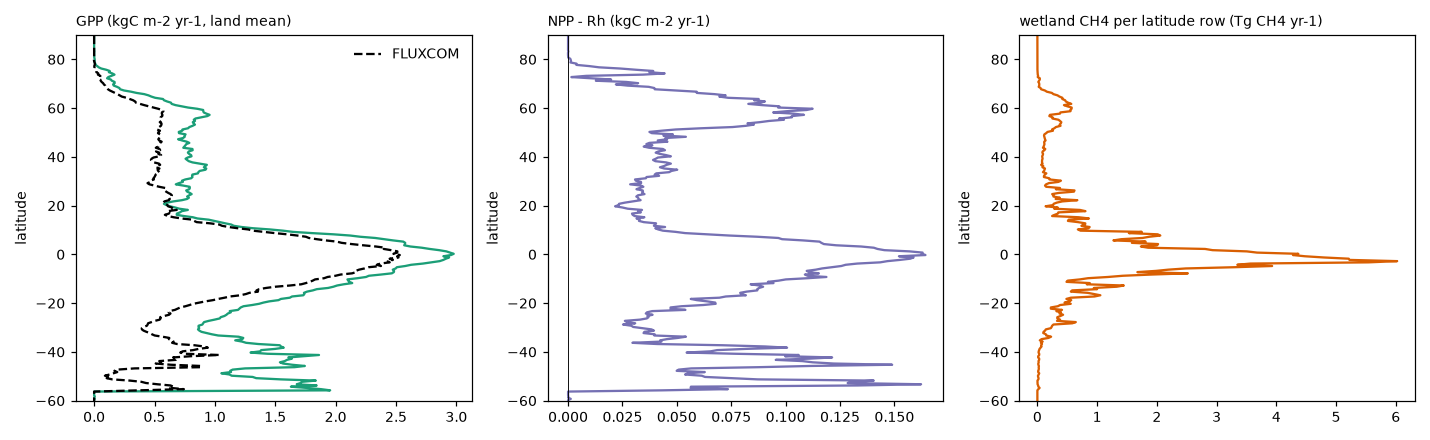
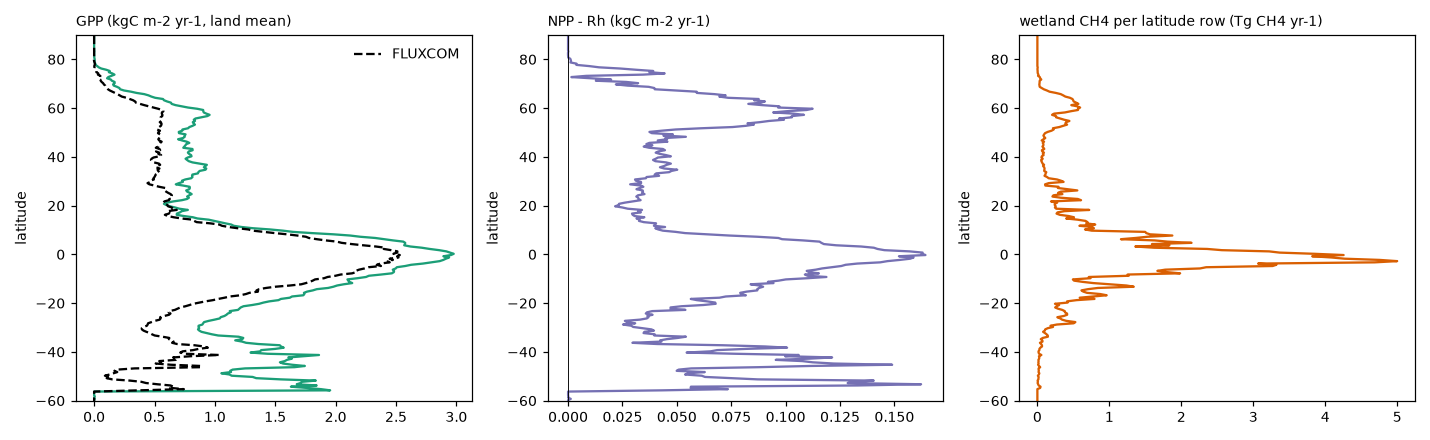
Release methane = hourly flux + hourly-refitted bands + learned wetland area (CALIBRATION 82): README with the three-mode and learned-vs-observed tables and regenerated figures 1-2, RELEASE_3.0, protocol switches, data inventory, xgboost dependency; fire rows on the corrected GFED5 registration

diff --git a/verify/methane/plot_wetland_modes.py b/verify/methane/plot_wetland_modes.py
@@ -1,0 +1,89 @@
+"""Figures: wetland area and wetland CH4 under the three area modes (climatology / learned / observed), hourly CH4 with the
+hourly bands, 2001-2010; plus the release as it stood before 2026-10-29 (month-end snapshot, old bands, mis-registered WAD2M).
+    python plot_wetland_modes.py <clim out> <learned out> <observed out> <old release out> <figure dir>
+Writes wetland_area_series.png, wetland_area_maps.png, wetland_ch4_series.png. CPU environment (matplotlib, xarray)."""
+import sys, numpy as np, xarray as xr, matplotlib; matplotlib.use('Agg'); import matplotlib.pyplot as plt
+from matplotlib.colors import TwoSlopeNorm
+R = '/shared/nas2/Hangkai/ibis-port'; sys.path[:0] = [f'{R}/verify/calibration']
+from landmask import true_landfrac
+CLIM, LEARN, OBS, OLD, FIG = sys.argv[1:6]
+NDAY = np.array([31, 28, 31, 30, 31, 30, 31, 31, 30, 31, 30, 31], float)
+INK, INK2, MUTED, GRID, SURF = '#0b0b0b', '#52514e', '#8a8984', '#e6e5e0', '#fcfcfb'
+COL = {'climatology': '#8a8984', 'learned': '#2a78d6', 'observed': '#eb6834', 'old': '#3d3c38'}
+plt.rcParams.update({'font.size': 11, 'axes.edgecolor': GRID, 'axes.labelcolor': INK2, 'xtick.color': INK2, 'ytick.color': INK2, 'axes.titlesize': 12,
+                     'axes.titleweight': 'bold', 'axes.titlecolor': INK, 'figure.facecolor': SURF, 'axes.facecolor': SURF, 'savefig.facecolor': SURF,
+                     'axes.spines.top': False, 'axes.spines.right': False, 'axes.grid': True, 'grid.color': GRID, 'grid.linewidth': 0.8, 'legend.frameon': False})
+LAT = np.arange(89.75, -90, -0.5); lf = np.nan_to_num(true_landfrac()); AREA = (6371e3 ** 2) * np.deg2rad(0.5) ** 2 * np.cos(np.deg2rad(LAT))[:, None] * np.ones((360, 720)) * lf
+BANDS = {'90°S–30°N': LAT < 30, '30–60°N': (LAT >= 30) & (LAT < 60), '60–90°N': LAT >= 60, 'Global': np.ones(360, bool)}
+GMB = {'90°S–30°N': (109.5, 65.7, 146.1), '30–60°N': (32.1, 16.3, 60.1), '60–90°N': (11.7, 3.6, 28.1), 'Global': (153.3, 116.1, 189.1)}
+def monthly(d, v):
+    return np.array([np.nan_to_num(np.asarray(xr.open_dataset(f'{d}/ibis_monthly_{y}_{m:02d}.nc')[v].values, np.float32)) for y in range(2001, 2011) for m in range(1, 13)])
+wd = xr.open_dataset('/shared/nas2/Hangkai/ibis/inputs/methane/wad2m/WAD2M_wetlands_2000-2020_05deg_Ver2.0.nc'); FW = np.nan_to_num(np.asarray(wd['Fw'].values, np.float32))
+FW = FW[:, ::-1] if float(wd['lat'].values[0]) < float(wd['lat'].values[-1]) else FW; t = wd['time'].dt.year.values
+AO = FW[(t >= 2001) & (t <= 2010)]; AC = np.tile(np.clip(FW.reshape(21, 12, 360, 720).mean(0), 0, 1), (10, 1, 1)); AL = monthly(LEARN, 'finund')
+land = np.isfinite(xr.open_dataset(f'{LEARN}/ibis_monthly_2001_01.nc')['fu'].values)
+AO = np.where(land, AO, 0); AC = np.where(land, AC, 0)
+CH = {k: monthly(d, 'amch4') for k, d in (('climatology', CLIM), ('learned', LEARN), ('observed', OBS), ('old', OLD))}
+nd = np.tile(NDAY, 10)
+def band_area(A, msk): return (A[:, msk] * AREA[msk]).sum((1, 2)) / 1e12
+def band_ch4(C, msk): return (C[:, msk] * AREA[msk]).sum((1, 2)) * nd * 16.0 / 12.0 / 1e9
+tm = 2001 + (np.arange(120) + 0.5) / 12; yrs = np.arange(2001, 2011)
+# ---- figure 1: wetland area by band, monthly series and annual anomalies
+fig, ax = plt.subplots(4, 2, figsize=(14, 13), gridspec_kw=dict(width_ratios=[2.4, 1]), constrained_layout=True)
+for i, (b, msk) in enumerate(BANDS.items()):
+    s = {'climatology': band_area(AC, msk), 'learned': band_area(AL, msk), 'observed': band_area(AO, msk)}
+    a = ax[i, 0]
+    for k in ('climatology', 'observed', 'learned'): a.plot(tm, s[k], color=COL[k], lw=2 if k != 'climatology' else 1.5, ls='-' if k != 'climatology' else '--', label={'observed': 'observed (WAD2M)', 'learned': 'learned', 'climatology': 'WAD2M climatology'}[k])
+    a.set_title(f'{b}: wetland area, monthly', loc='left'); a.set_ylabel('million km²')
+    if i == 0: a.legend(loc='upper left', ncol=3)
+    a = ax[i, 1]
+    for k in ('observed', 'learned'):
+        y = s[k].reshape(10, 12).mean(1); a.plot(yrs, y - y.mean(), color=COL[k], lw=2, marker='o', ms=6, mec=SURF, mew=1.5, label=k)
+    a.axhline(0, color=MUTED, lw=1); a.set_title('annual-mean anomaly', loc='left'); a.set_ylabel('million km²'); a.set_xticks(yrs[::3])
+    r = np.corrcoef(s['observed'].reshape(10, 12).mean(1), s['learned'].reshape(10, 12).mean(1))[0, 1]
+    a.text(0.02, 0.04, f'r = {r:.2f}', transform=a.transAxes, color=INK2)
+    if i == 0: a.legend(loc='upper left')
+fig.suptitle('Wetland area 2001–2010: observed, fixed climatology and learned', x=0.01, ha='left', fontsize=14, fontweight='bold', color=INK)
+fig.savefig(f'{FIG}/wetland_area_series.png', dpi=110); plt.close(fig)
+# ---- figure 2: maps
+rows = LAT > -60; ext = [-180, 180, -60, 90]
+def mp(a, X, title, **kw):
+    im = a.imshow(np.where(land, X, np.nan)[rows], extent=ext, aspect='auto', interpolation='nearest', **kw); a.set_title(title, loc='left'); a.set_xticks([]); a.set_yticks([]); a.grid(False)
+    for sp in a.spines.values(): sp.set_visible(False)
+    a.set_facecolor('#eceae4'); return im
+mo, ml = AO.mean(0), AL.mean(0); yo, yl = AO.reshape(10, 12, 360, 720).mean(1), AL.reshape(10, 12, 360, 720).mean(1)
+so, sl = yo.std(0), yl.std(0)
+ao, al = yo - yo.mean(0), yl - yl.mean(0); num = (ao * al).sum(0); den = np.sqrt((ao ** 2).sum(0) * (al ** 2).sum(0)); rmap = np.where((den > 1e-12) & (mo > 0.01), num / np.maximum(den, 1e-12), np.nan)
+fig, ax = plt.subplots(2, 3, figsize=(18, 8.4), constrained_layout=True)
+im = mp(ax[0, 0], np.where(mo > 0.002, mo, np.nan), 'observed wetland fraction, 2001–2010 mean', cmap='Blues', vmin=0, vmax=0.3); fig.colorbar(im, ax=ax[0, 0], shrink=0.8, label='fraction of cell')
+im = mp(ax[0, 1], np.where((mo > 0.002) | (ml > 0.002), ml - mo, np.nan), 'learned minus observed, 2001–2010 mean', cmap='RdBu_r', norm=TwoSlopeNorm(0, -0.02, 0.02)); fig.colorbar(im, ax=ax[0, 1], shrink=0.8, label='fraction of cell')
+im = mp(ax[0, 2], rmap, 'year-to-year correlation, learned vs observed', cmap='RdBu_r', norm=TwoSlopeNorm(0, -1, 1)); fig.colorbar(im, ax=ax[0, 2], shrink=0.8, label='r of annual means (cells > 1 % wet)')
+vmax = float(np.nanpercentile(np.where(mo > 0.01, so, np.nan), 98))
+im = mp(ax[1, 0], np.where(mo > 0.002, so, np.nan), 'observed: year-to-year sd of the annual mean', cmap='Oranges', vmin=0, vmax=vmax); fig.colorbar(im, ax=ax[1, 0], shrink=0.8, label='fraction of cell')
+im = mp(ax[1, 1], np.where(ml > 0.002, sl, np.nan), 'learned: year-to-year sd of the annual mean', cmap='Oranges', vmin=0, vmax=vmax); fig.colorbar(im, ax=ax[1, 1], shrink=0.8, label='fraction of cell')
+ratio = np.where(so > 1e-3, sl / np.maximum(so, 1e-6), np.nan)
+im = mp(ax[1, 2], ratio, 'learned sd / observed sd', cmap='RdBu_r', norm=TwoSlopeNorm(1, 0, 2)); fig.colorbar(im, ax=ax[1, 2], shrink=0.8, label='ratio (cells with observed sd > 0.001)')
+fig.suptitle('Wetland area in space: where the learned area follows the observations, and how strongly it varies', x=0.01, ha='left', fontsize=14, fontweight='bold', color=INK)
+fig.savefig(f'{FIG}/wetland_area_maps.png', dpi=100); plt.close(fig)
+# ---- figure 3: methane
+LBL = {'climatology': 'climatology area', 'learned': 'learned area', 'observed': 'observed area', 'old': 'release before 29 Oct (snapshot)'}
+fig, ax = plt.subplots(4, 3, figsize=(18, 13), gridspec_kw=dict(width_ratios=[2.2, 1, 1]), constrained_layout=True)
+for i, (b, msk) in enumerate(BANDS.items()):
+    s = {k: band_ch4(C, msk) for k, C in CH.items()}
+    a = ax[i, 0]
+    for k in ('climatology', 'observed', 'learned'): a.plot(tm, s[k], color=COL[k], lw=2 if k != 'climatology' else 1.5, ls='-' if k != 'climatology' else '--', label=LBL[k])
+    a.set_title(f'{b}: wetland CH₄, monthly', loc='left'); a.set_ylabel('Tg CH₄ per month')
+    if i == 0: a.legend(loc='upper left', ncol=3)
+    a = ax[i, 1]; g = GMB[b]; a.axhspan(g[1], g[2], color='#eceae4', lw=0); a.axhline(g[0], color=INK2, lw=1.2)
+    a.text(2001.1, g[0], ' GMB 2025 mean', va='bottom', color=INK2, fontsize=9)
+    for k in ('climatology', 'observed', 'learned', 'old'):
+        y = s[k].reshape(10, 12).sum(1); a.plot(yrs, y, color=COL[k], lw=2 if k != 'old' else 1.5, ls='-' if k not in ('climatology', 'old') else '--', marker='o' if k in ('learned', 'observed') else None, ms=5, mec=SURF, label=LBL[k])
+    a.set_title('annual total (band = GMB range)', loc='left'); a.set_ylabel('Tg CH₄ per year'); a.set_xticks(yrs[::3])
+    if i == 0: a.legend(loc='lower left', fontsize=9)
+    a = ax[i, 2]
+    for k in ('climatology', 'observed', 'learned', 'old'):
+        a.plot(np.arange(1, 13), s[k].reshape(10, 12).mean(0), color=COL[k], lw=2 if k != 'old' else 1.5, ls='-' if k not in ('climatology', 'old') else '--', label=LBL[k])
+    a.set_xticks(range(1, 13)); a.set_xticklabels(list('JFMAMJJASOND')); a.set_title('seasonal cycle, decade mean', loc='left'); a.set_ylabel('Tg CH₄ per month')
+fig.suptitle('Wetland methane 2001–2010 under the three area modes (hourly flux, refitted bands), and the release before today', x=0.01, ha='left', fontsize=14, fontweight='bold', color=INK)
+fig.savefig(f'{FIG}/wetland_ch4_series.png', dpi=110); plt.close(fig)
+print('wrote', FIG)

diff --git a/README.md b/README.md
@@ -2,7 +2,7 @@
 
 IBIS 3.0 is the Integrated Biosphere Simulator (IBIS 2.6b4; Foley et al. 1996, Kucharik et al. 2000) rewritten in JAX, verified against the Fortran at machine precision, corrected where the original or the port was wrong, extended with a sunlit/shaded canopy, forty climate-zone plant types, a water-limited tree cover, fire, wetland methane, cropland and a deeper soil column, and calibrated from the flux towers outward to the globe. The 310-year global protocol at 0.5° takes about seven hours on one GPU, a per-tower calibration under an hour, and the whole model is differentiable.
 
-The release state (28 October 2026) is the parameter set [`params_31s_soil_strong.yaml`](python-port/configs/params/params_31s_soil_strong.yaml) on branch `calibration-s1`. [`docs/RELEASE_3.0.md`](docs/RELEASE_3.0.md) describes it in short: what was calibrated against what, the file's provenance, how to reproduce the run and its scores, and the limitations. [`docs/CALIBRATION.md`](docs/CALIBRATION.md) is the full record (74 sections). `main` carries the 12 October 2026 release ([`params_s7_crop.yaml`](python-port/configs/params/params_s7_crop.yaml)) until the final is merged.
+The release state (29 October 2026) is the parameter set [`params_31s_ch4h.yaml`](python-port/configs/params/params_31s_ch4h.yaml) on branch `calibration-s1`, run with hourly wetland methane and the learned wetland area (`methane_hourly`, `wetland_source: learned`). [`docs/RELEASE_3.0.md`](docs/RELEASE_3.0.md) describes it in short: what was calibrated against what, the file's provenance, how to reproduce the run and its scores, and the limitations. [`docs/CALIBRATION.md`](docs/CALIBRATION.md) is the full record (82 sections). `main` carries the 12 October 2026 release ([`params_s7_crop.yaml`](python-port/configs/params/params_s7_crop.yaml)) until the final is merged.
 
 ## Results at a glance (28 October 2026)
 
@@ -41,9 +41,9 @@ The 12 October comparison at the original 62 FLUXNET2015 towers, 2009–2012 ("h
 | GPP trend, 1900s to 2000s | – | +18 % | **+21 %** | +31 ± 5 % (Campbell et al. 2017); 20–30 % (TRENDY) |
 | ET, mm yr⁻¹ (cell r; cells inside the product spread) | 1.03 × | 527 (1.04 ×; 0.93; 54 %) | **529** (1.04 ×; 0.94; 55 %) | 508 (five-product ensemble) |
 | ET / ensemble: tropics / 30–60N / north of 60 | – | 1.08 / 1.00 / 0.75 | **1.08 / 0.99 / 0.80** | 1 |
-| Wetland CH4, Tg yr⁻¹ | 269 | 154 | **170** | GMB 2025 bottom-up: 153 (116–189) |
-| CH4 by band 90S–30N / 30–60N / 60–90N | – | 130 / 11 / 13 | **152 / 12 / 6** | 109 / 32 / 12 |
-| Burned area, % yr⁻¹ (rank r vs GFED5, all / burning cells) | 4.62 | 4.55 (+0.76 / +0.42) | **2.42** (+0.76 / +0.43) | 4.60 (products 2.4–4.6) |
+| Wetland CH4, Tg yr⁻¹ | 269 | 154 | **152** | GMB 2025 bottom-up: 153 (116–189) |
+| CH4 by band 90S–30N / 30–60N / 60–90N | – | 130 / 11 / 13 | **135 / 11 / 7** | 109 / 32 / 12 |
+| Burned area, % yr⁻¹ (rank r vs GFED5, all / burning cells) | 4.62 | 4.55 (+0.76 / +0.42) | **2.42** (+0.78 / +0.44) | 4.62 (products 2.4–4.6; the final column re-scored on the corrected GFED5 registration, CALIBRATION 81) |
 | Wood carbon (above-ground), PgC | 471 | 349 | **388** (1.07 × the map; temperate 1.70, savanna 0.71, humid tropics 1.01) | Xu & Saatchi 2021: 362 |
 | Soil carbon, PgC | 1938 | 2416 | **1982** (0.71 × HWSD2 0–1 m; 30–60N 0.80, north of 60 0.47) | HWSD2 0–1 m: 2793; literature 1500–2400 |
 | Tree cover on natural land | – | – | **0.450** (phantom forest 3.6 %, lost forest 1.9 %) | 0.388 (CLM / MODIS) |
@@ -56,11 +56,44 @@ The 12 October comparison at the original 62 FLUXNET2015 towers, 2009–2012 ("h
 
 ![Figure 1. The final global run, 2001–2010 means: GPP, net flux (NPP − Rh), above-ground wood carbon, soil carbon, and wetland methane beside the Global Methane Budget 2025 bottom-up map.](docs/figures/readme/G1_maps.png)
 
-*Figure 1. The release run, 2001–2010 means: GPP (147 PgC yr⁻¹), net flux (NPP − Rh, positive = uptake), above-ground wood carbon (388 PgC), soil carbon (1982 PgC), and the model's wetland methane (170 Tg yr⁻¹) beside the Global Methane Budget 2025 bottom-up wetland map on the same colour scale.*
+*Figure 1. The release run, 2001–2010 means: GPP (147 PgC yr⁻¹), net flux (NPP − Rh, positive = uptake), above-ground wood carbon (388 PgC), soil carbon (1982 PgC), and the model's wetland methane (152 Tg yr⁻¹, hourly flux on the learned wetland area) beside the Global Methane Budget 2025 bottom-up wetland map on the same colour scale.*
 
 ![Figure 2. Zonal land means: GPP against FLUXCOM, NPP − Rh, and wetland methane per latitude row.](docs/figures/readme/G2_zonal.png)
 
 *Figure 2. Zonal land means of the same run: GPP beside FLUXCOM, the net flux, and wetland methane per latitude row (Tg CH4 yr⁻¹).*
+
+### Wetland methane: hourly flux, learned wetland area
+
+Wetland CH4 is computed every time step from the hourly soil temperature, water and ice and the day's heterotrophic
+respiration, with the band parameters refitted at the 48 wetland towers at that cadence. The wetland area is dynamic,
+seasonally and from year to year: the WAD2M seasonal climatology plus an anomaly from a learned model (gradient-boosted
+trees per wetland band, monotone in water) of the month's inundation from the model's own month-mean soil water and
+water totals and static topography. Held out by year, the learned area beats the fixed climatology against WAD2M in
+every band (monthly R² 0.56 / 0.48 / 0.81 against 0.52 / 0.46 / 0.80, tropical / temperate / boreal) and follows the
+year-to-year variation (r of the annual area 0.90 / 0.48 / 0.58), with damped amplitude (a quarter of the observed
+swings in the tropics). Details: [`docs/METHANE.md`](docs/METHANE.md) 8-11, [`docs/CALIBRATION.md`](docs/CALIBRATION.md) 80-82.
+
+Wetland CH4, Tg CH4 yr⁻¹, 2001–2010, under three wetland-area sources (hourly flux, refitted bands):
+
+| Band | fixed climatology | learned (the release) | observed WAD2M month | GMB 2025 bottom-up, 2000–2009 |
+|---|---|---|---|---|
+| 90S–30N | 134.3 | **134.7** | 138.3 | 109.5 (66–146) |
+| 30–60N | 10.5 | **10.6** | 10.5 | 32.1 (16–60) |
+| 60–90N | 6.7 | **6.8** | 6.7 | 11.7 (4–28) |
+| Global | 151.5 | **152.1** | 155.6 | 153.3 (116–189) |
+
+Learned against observed wetland area, and the CH4 each gives (learned / observed − 1):
+
+| Band | area, decade mean | area, range over years | methane, range over years |
+|---|---|---|---|
+| tropics | −1.7 % | −3.5 to +2.0 % | −0.7 to −5.0 % |
+| 30–60°N | +0.3 % | −4.3 to +3.6 % | −0.3 to +3.0 % |
+| 60–90°N | +1.1 % | −0.8 to +3.3 % | −1.0 to +1.5 % |
+| global | −0.8 % | −2.9 to +1.3 % | −0.6 to −4.4 % |
+
+The annual CH4 anomalies of the learned and the observed run correlate at 0.98; the decade-mean area maps at cell r
+0.999. The learned run is the release setting because it is the like-for-like protocol for the budget's numbers above,
+which are the models' own (prognostic) wetland extents; the observed source remains a switch for diagnostic runs.
 
 ![Figure 3. GPP against FLUXCOM: model, reference, difference, ratio and zonal means.](docs/figures/readme/S_GPP_spatial.png)
 
@@ -82,7 +115,7 @@ The 12 October comparison at the original 62 FLUXNET2015 towers, 2009–2012 ("h
 | Plant types | 12 PFTs, one parameter set each | 40 Köppen-zone types in the 12 slots, each square taking its zone's types; a Köppen mask on existence | new |
 | Cover and establishment | linear grass cover, 25 % floors, no water limit on trees | saturating cover, floors as parameters, a water-limited maximum tree cover per zone | new |
 | Fire | annual-mean dryness, never switched on in the port | fire-season length, VPD × density danger, fine fuel, human terms, per-type mortality, closed-canopy damping, emissions, combustion completeness | new |
-| Methane | none | one-scalar wetland module on WAD2M inundation, per-band parameters fitted at towers | new |
+| Methane | none | one-scalar wetland module evaluated every time step; wetland area = WAD2M seasonal climatology + a learned year-to-year anomaly from the model's own water; per-band parameters fitted at towers at the hourly cadence | new |
 | Cropland | none (crops become forest) | managed grass on a sub-grid share: harvest, crop capacity factor, calibrated at cropland towers | new |
 | Soil column | 4 m, zero flux | +8 m bedrock, permafrost diagnostic | new |
 | Respiration and allocation | hard-coded constants | per-type parameters, NEE by day and night, ET components; slow/passive soil turnover per zone group | parameters |
@@ -107,7 +140,7 @@ Every new process sits behind a switch that is off by default and bit-identical 
 
 1. **Burned area is half of GFED5**, a quarter in the African savannas, where the fires are lit by people and the scheme has no agricultural or lightning ignition term. The fire parameters sit at the optimum of the zone objective.
 2. **Temperate wood is 1.7 times the biomass map** (Europe 1.9, the eastern United States 1.7): young, managed forests against a model that grows old growth with no land-use history. The Congo is 0.63 of the map.
-3. **Wetland methane by band follows the towers, not the wetland-model ensemble**: 1.4 times the ensemble in the tropics, 0.4 to 0.5 in the north; no frozen-season production; a climatological inundation, so the tropical towers' seasonal cycle is not reproduced.
+3. **Wetland methane by band follows the towers, not the wetland-model ensemble**: 1.23 times the ensemble in the tropics, 0.33 and 0.58 in the two northern bands; no frozen-season production; the learned wetland area's year-to-year swings are a quarter of the observed in the tropics.
 4. **GPP north of 30 N in spring and autumn** is 1.5–3 times FLUXCOM while July is close; north of 60 N the annual GPP is 1.8 times FLUXCOM with eight polar towers behind the types.
 5. **Soil carbon is 0.71 of the HWSD2 top metre**, the cold zones at 0.5–0.6. The soil is at equilibrium by the end of the spin-up (drift under 0.1 PgC yr⁻¹ per zone), so this is the equilibrium stock under the model's turnover and inputs; the HWSD2 top metre in the boreal zones is largely peat and permafrost carbon that a mineral-soil decomposition scheme does not accumulate.
 6. **Tree cover is 0.45 against 0.39** on natural land (phantom forest 3.6 %).
@@ -124,7 +157,7 @@ Every new process sits behind a switch that is off by default and bit-identical 
 | [`docs/`](docs/) | the science log (table above) and the README figures |
 | [`configs/`](configs/) | spin-up configurations of earlier stages |
 
-Parameter sets in [`python-port/configs/params/`](python-port/configs/params/): `params_31s_soil_strong.yaml` (**the IBIS 3.0 release**: the type set with the cover limit, the production refit and the soil-carbon factors), its chain `params_31r.yaml` (cover limit and production) and `params_31n.yaml` (the allocation stage), and `params_s7_crop.yaml` (the 12 October release on `main`; class medians of the 62-tower fits with methane and cropland). The provenance of each step is in [`docs/RELEASE_3.0.md`](docs/RELEASE_3.0.md) section 2.
+Parameter sets in [`python-port/configs/params/`](python-port/configs/params/): `params_31s_ch4h.yaml` (**the IBIS 3.0 release**: the type set with the cover limit, the production refit, the soil-carbon factors and the methane bands refitted at the hourly cadence), its chain `params_31s_soil_strong.yaml` (the same without the hourly methane bands), `params_31r.yaml` (cover limit and production) and `params_31n.yaml` (the allocation stage), and `params_s7_crop.yaml` (the 12 October release on `main`; class medians of the 62-tower fits with methane and cropland). The provenance of each step is in [`docs/RELEASE_3.0.md`](docs/RELEASE_3.0.md) section 2.
 
 ## Quick start
 
@@ -143,11 +176,12 @@ PYTHONPATH=python-port:. python python-port/scripts/run_global.py <cfg.yaml>
 
 # the IBIS 3.0 protocol as the release ran it: cold 200-yr spin-up, 1901-2000 transient, 2001-2010 hindcast, scoring against the budgets
 SPINUP_YEARS=200 METHANE=1 KOPPEN_TYPES=1 KOPPEN=<koppen_npz> CROPFRAC=<cropfrac_npz> \
-  bash verify/calibration/final_validation.sh s31t python-port/configs/params/params_31s_soil_strong.yaml
+  METHANE_HOURLY=1 WETLAND_SOURCE=learned WETLAND_LEARNED_FILE=<wetland_learned_v2_s31t.npz> \
+  bash verify/calibration/final_validation.sh s31t python-port/configs/params/params_31s_ch4h.yaml
 
 # a per-tower fit (CMA-ES) at the evergreen-needleleaf towers
 PYTHONPATH=python-port:. python verify/calibration/site_fit.py --igbp ENF \
-  --params python-port/configs/params/params_31s_soil_strong.yaml \
+  --params python-port/configs/params/params_31s_ch4h.yaml \
   --fit vmax:temp_con_ever,acclim_tau,acclim_s0 --n-evals 200 --workers 4 --out <dir>
 ```
 

diff --git a/docs/RELEASE_3.0.md b/docs/RELEASE_3.0.md
@@ -15,26 +15,31 @@ when off: a sunlit/shaded two-big-leaf canopy with capacity declining through th
 parameters (photoperiod senescence, a soil-stress drought trigger); forty Köppen-zone plant types that live in the twelve
 PFT slots, each square taking the types of its climate zone; a water-limited maximum tree cover; a fire scheme driven by
 the length of the fire season with per-type mortality and conserved emissions (CO2, CO, CH4, N2O); a wetland methane
-module (one scalar form) on WAD2M inundation with the water table from the model's own soil moisture; cropland as managed
+module (one scalar form) evaluated every time step, with the water table from the model's own soil moisture and a
+dynamic wetland area (the WAD2M seasonal climatology plus a learned year-to-year anomaly from the model's own water); cropland as managed
 grass on the ESA CCI cropland share with harvest; three thermal bedrock layers under the 4 m column; per-type respiration
 and allocation; and the diagnostics the towers measure (ET parts, day and night NEE, fire emissions, methane, harvest).
 The global run has 95,333 half-degree land cells; the 310-year protocol takes about seven hours on one RTX 4090.
 
 ## 2. The release parameter file and its provenance
 
-The release is `python-port/configs/params/params_31s_soil_strong.yaml`, run as the protocol tagged `s31t` on 28 October
-2026 (`verify_outputs/final_s31t/`). Newest change first:
+The release is `python-port/configs/params/params_31s_ch4h.yaml`, run as the protocol tagged `s31t` on 28 October 2026
+(`verify_outputs/final_s31t/`), with the 2001-2010 hindcast rerun on 29 October with hourly methane and the learned
+wetland area (`verify_outputs/final_s31t_ch4h_learned_r2/`; methane is diagnostic, so carbon, water and fire are those of
+`s31t` to float32 rounding, 1e-7 of every global total, CALIBRATION 82). Newest change first:
 
 | Step | File | What it added | Log |
 |---|---|---|---|
+| methane at the hourly cadence | `params_31s_ch4h.yaml` | the methane band parameters refitted at the 48 wetland towers with the flux evaluated every time step (the earlier fits used the month-end state); used with `methane_hourly` and the learned wetland area (`wetland_learned_v2_s31t.npz`) | 80-82 |
 | soil-carbon stage | `params_31s_soil_strong.yaml` | slow- and passive-pool turnover scaled per zone group on the zones' tree types (`som_k_scale`); the stronger member of a two-member bracket run through the full protocol | 72 |
 | cover limit and production | `params_31r.yaml` | the water-limited maximum tree cover with a ramp per zone (the stress gate retired); the C/D-zone allocation refit (awood 0.35, the leaf cut going to roots); shorter temperate wood residence (45 / 40 yr); the tropical wood refit at half strength | 70-71 |
 | allocation stage, road B | `params_31n.yaml` | leaf area set through the allocation and leaf-mass coefficients, no caps; the cold shrub kept (aleaf 0.30) | 54-69 |
 | the type set | carried in the above | 40 climate-zone types, each the median of its towers' fits from the 356-tower campaign; methane bands from the 45 FLUXNET-CH4 towers; cropland from 16 cropland towers | 45-57, 38, 41 |
 | 12 October release (`main`) | `params_s7_crop.yaml` | the class-median set of the 62-tower fits, with methane and cropland | 37-43 |
 
-Switches on in the release run: `koppen_types` (with the Köppen mask `koppen_file`), `tree_cover_limit`, `enable_methane`,
-`enable_fire_emissions`, cropland (`cropfrac_file`). Organic-soil hydrology is off. The run is cold: no state is inherited
+Switches on in the release run: `koppen_types` (with the Köppen mask `koppen_file`), `tree_cover_limit`, `enable_methane`
+with `methane_hourly` and `wetland_source: learned` (`wetland_learned_file`), `enable_fire_emissions`, cropland
+(`cropfrac_file`). Organic-soil hydrology is off. The run is cold: no state is inherited
 from an earlier run.
 
 ## 3. What was calibrated against what
@@ -44,7 +49,8 @@ Towers first, then the globe; no global total was ever a term in a loss function
 | Process | Parameters | Data | How | Log |
 |---|---|---|---|---|
 | photosynthesis, stomata, phenology, respiration, allocation | per type: capacity and acclimation, Ball-Berry, leaf traits, allocation and turnover, respiration | 356 flux towers (FLUXNET2015, ICOS, AmeriFlux, NEON, regional networks): monthly GPP, ET and NEE on the tower's own meteorology, three to five years, one held out | CMA-ES per tower on a bounded objective; each type is the median of its towers; every tower re-scored under the shared set | 34-36, 45, 50-57 |
-| wetland methane | rate, Q10, anaerobic depth scale and oxidation scale per latitude band | 45 FLUXNET-CH4 towers, held-out year | per-tower fits, band medians; the bands kept at the final (the decomposition of 73) | 38, 42, 73 |
+| wetland methane | rate, Q10, anaerobic depth scale and oxidation scale per wetland band | 48 wetland towers of the FLUXNET-CH4 v2 compilation (Chenchen's gap-filled set, unpublished), held-out year | per-tower fits with the flux evaluated every time step, band medians by Köppen wetland type | 38, 42, 73, 80 |
+| wetland area | the learned anomaly model (trees per band, monotone in water) | WAD2M v2.0 monthly fraction 2001-2010 | trained on a reference hindcast's month-mean soil state and water totals; held out by year | METHANE 8-11, 81 |
 | cropland | crop capacity factor, harvest | 16 cropland towers | per-tower fits | 41 |
 | fire | season, danger, fuel, mortality, damping | GFED5 burned fraction 2001-05 by zone | a zone objective on amount and pattern; the release sits at its optimum | 59, 65-66 |
 | tree cover | maximum cover against growing-season water stress, per zone | CLM / MODIS tree cover on natural land | the product's cover as a function of the model's own stress, fitted by zone; phantom and lost forest as the check | 70-71 |
@@ -60,7 +66,8 @@ radiation) is the verified IBIS 2.6b4 physics.
 cd ibis-port; export PYTHONPATH=python-port:.
 SPINUP_YEARS=200 METHANE=1 KOPPEN_TYPES=1 \
   KOPPEN=<koppen_beck2023_0.5deg.npz> CROPFRAC=<cropfrac_esacci_2000_05deg.npz> \
-  bash verify/calibration/final_validation.sh s31t python-port/configs/params/params_31s_soil_strong.yaml
+  METHANE_HOURLY=1 WETLAND_SOURCE=learned WETLAND_LEARNED_FILE=<wetland_learned_v2_s31t.npz> \
+  bash verify/calibration/final_validation.sh s31t python-port/configs/params/params_31s_ch4h.yaml
 ```
 
 Stages: cold spin-up 1701-1900 (1901-1930 climate cycled, 296 ppm, soil carbon accelerated then released), transient
@@ -87,8 +94,8 @@ in the CPU environment). The release figures and tables come from `verify/calibr
 | ET, mm yr-1 | 529 | five-product ensemble 508 | 1.04; cell r 0.94; 55 % of cells inside the product spread; by band 1.08 / 0.99 / 0.80 |
 | land sink (change of stored carbon), PgC yr-1 | 2.91 | GCB 2024 2.78 ± 0.69; TRENDY v13 mean 2.83 (1.4-4.4) | NPP - Rh before fire and harvest 8.1; carbon closure to 0.1 PgC yr-1, the soil residual being leaching |
 | crop harvest, PgC yr-1 | 0.67 | about 1-2 | cropland as managed grass |
-| wetland CH4, Tg CH4 yr-1 | 170 | GMB 2025 bottom-up 153 (116-189), 2000-09 | by band 152 / 12 / 6 against 109 / 32 / 12 |
-| burned area, % of land yr-1 | 2.42 | GFED5 4.60 (products 2.4-4.6) | 0.53; rank r 0.76 (burning cells 0.43); African savanna 0.24 |
+| wetland CH4, Tg CH4 yr-1 | 152 | GMB 2025 bottom-up 153 (116-189), 2000-09 | by band 135 / 11 / 7 against 109 / 32 / 12; hourly flux on the learned wetland area (observed WAD2M area: 156; fixed climatology: 151) |
+| burned area, % of land yr-1 | 2.42 | GFED5 4.62 (products 2.4-4.6) | 0.52; rank r 0.78 (burning cells 0.44), on the corrected GFED5 registration (81); African savanna 0.24 |
 | wood carbon, PgC | 388 | Xu & Saatchi 2021: 362 | 1.07; humid tropics 1.01 (Amazon 0.98, Congo 0.63), savanna 0.71, temperate 1.70, boreal 1.10, tundra 0.60; rank r 0.70 |
 | soil carbon, PgC | 1982 | HWSD2 0-1 m 2793 (98 % of land); literature 1500-2400 | 0.71; 90 S-30 N 0.82, 30-60 N 0.80, 60-90 N 0.47; boreal 0.59; cell r 0.51 |
 | tree cover on natural land | 0.450 | CLM / MODIS 0.388 | phantom forest 3.6 % of natural land, lost forest 1.9 % |
@@ -102,11 +109,12 @@ in the CPU environment). The release figures and tables come from `verify/calibr
 2. **Temperate wood is 1.7 times the biomass map** (Europe 1.9, the eastern United States 1.7, Australia 1.6): those
    forests are young and managed, and the model grows old growth over the 310-year protocol with no land-use history. The Congo is
    0.63 and humid Asia 1.36 of the map (67, 71).
-3. **The methane split by band follows the towers, not the wetland-model ensemble**: 1.39 times the ensemble in the
-   tropics, 0.36 in 30-60 N, 0.53 north of 60 N. The band parameters fitted at the towers carry the towers' own rates into
+3. **The methane split by band follows the towers, not the wetland-model ensemble**: 1.23 times the ensemble in the
+   tropics, 0.33 in 30-60 N, 0.58 north of 60 N. The band parameters fitted at the towers carry the towers' own rates into
    the globe; rescaling a band to the ensemble would be tuning to a global total. The module has no frozen-season
-   production (about 3 Tg yr-1 in the north at the towers), and the inundation input is a climatology, so the tropical
-   towers' seasonal cycle is not reproduced (held-out r 0.03) (38, 73).
+   production (about 3 Tg yr-1 in the north at the towers). The learned wetland area follows the observed year-to-year
+   variation (r 0.90 tropics, 0.48 temperate, 0.58 boreal, held out) at damped amplitude (a quarter of the observed
+   swings in the tropics); a prognostic extent needs river routing (38, 73, 80-81; METHANE 8-11).
 4. **GPP north of 30 N in spring and autumn** is 1.5-3 times FLUXCOM while July is close; annual GPP north of 60 N is
    1.8 times FLUXCOM, where FLUXCOM is also lowest against the towers and the campaign has eight polar towers (47-49, 69).
 5. **Soil carbon is 0.71 of the HWSD2 top metre**: the cold zones fall short (boreal 0.59, north of 60 N 0.47). The soil is
@@ -120,11 +128,14 @@ in the CPU environment). The release figures and tables come from `verify/calibr
 
 ## 7. Where things are
 
-- Run: `verify_outputs/final_s31t/` (spin-up, transient, hindcast, `score/`); the reference run of the stage before the
+- Run: `verify_outputs/final_s31t/` (spin-up, transient, hindcast, `score/`), with the release hindcast of the methane
+  configuration `final_s31t_ch4h_learned_r2/` (and its siblings `_clim_r2`, `_obs_r2`); the reference run of the stage before the
   soil stage is `final_s31n/`, the cover-limit run `final_s31r/` (vegetation bit-identical to the release).
 - Figures and tables: `ibis_local_document/figures/final_2026-10-26/` (`tables/scorecard_s31n_s31t.txt`,
   `tables/metrics_s31n_s31t.json`, `tables/mip_compare_s31t.txt`, `tables/gpp_tower_cells_s31t.txt`,
-  `tables/ch4_bands_s31t.txt`, `tables/soil_figure_s31n_s31r_s31t.txt`, `tables/global_spatial_s31t.txt`).
-- Log: [`CALIBRATION.md`](CALIBRATION.md) 70-74 for the final stages; [`FIRE.md`](FIRE.md), [`METHANE.md`](METHANE.md),
+  `tables/ch4_bands_s31t.txt`, `tables/soil_figure_s31n_s31r_s31t.txt`, `tables/global_spatial_s31t.txt`,
+  `tables/wetland_modes_compare_r2.txt`, `tables/wetland_learned_vs_observed_breakdown.txt`,
+  `tables/fire_rescored_registration_fix.txt`; wetland figures in `wetland_2026-10-29/`).
+- Log: [`CALIBRATION.md`](CALIBRATION.md) 70-82 for the final stages; [`FIRE.md`](FIRE.md), [`METHANE.md`](METHANE.md),
   [`BEDROCK.md`](BEDROCK.md), [`GPP.md`](GPP.md) for the modules; [`RUNNING.md`](RUNNING.md) and
   [`ENVIRONMENT.md`](ENVIRONMENT.md) for the machine.

diff --git a/docs/CALIBRATION.md b/docs/CALIBRATION.md
@@ -7906,3 +7906,34 @@ a few hundredths of a Mkm2 that emits nothing (frozen soil). In space: the decad
 the area in different cells; 1.8-3.9 % by Koppen group), because both share the seasonal climatology; month by month 11 % of
 the area sits in different cells globally (8 % tropics), which is where the learned anomaly departs from the observed one.
 
+## 82. Decision: the release methane is hourly, with the learned wetland area (2026-10-29)
+
+Hangkai (10-29, on the three-mode comparison of 81 and its breakdown): "Looks good for this method, apply this then", with
+the learned-against-observed table to go into the README. The release methane configuration is: the wetland CH4 flux
+evaluated every time step (`physics.methane_hourly: true`), the band parameters refitted at that cadence
+(`params_31s_ch4h.yaml` = `params_31s_soil_strong.yaml` + the hourly `methane:` / `methane_bands:` sections, 80), and the
+wetland area from `physics.wetland_source: learned` with `forcing.wetland_learned_file =
+inputs/methane/wetland_learned/wetland_learned_v2_s31t.npz` (METHANE 11). Release numbers, 2001-2010: 152.1 Tg CH4 yr-1
+(GMB 2025 bottom-up 153.3 [116-189]); 90S-30N 134.7 (109.5 [66-146]), 30-60N 10.6 (32.1 [16-60]), 60-90N 6.8 (11.7 [4-28]).
+
+**The release run.** Methane is diagnostic, so the release keeps the s31t protocol (spin-up, transient) and takes the
+2001-2010 hindcast rerun from its 2000 state with the methane configuration (`final_s31t_ch4h_learned_r2`). Checked: the
+carbon and water fields of that hindcast against the s31t hindcast differ by 1e-7 of every global total (GPP +9.6e-8, ET
++9.9e-8, vegetation C -2.1e-9, soil C +1.3e-8, Rh -1.4e-7 relative, 2010), with cell-level differences that individual
+cells amplify through thresholds over ten years. The source is the compiled graph, not the physics: the in-loop
+accumulators of the hourly CH4 and the month-mean soil state change the XLA fusion on the GPU (a three-cell CPU test of
+the same flags is bit-identical, METHANE 10), and two runs with the same graph (`_clim_r2`, `_learned_r2`) agree with each
+other exactly in those totals. So every carbon, water, fire and soil number of the release (74-75) stands as quoted.
+
+**Protocol.** `final_validation.sh` gains `METHANE_HOURLY=1`, `WETLAND_SOURCE=learned`, `WETLAND_LEARNED_FILE=<file>`
+(applied to the transient and the hindcast with `METHANE=1`), so the release can be reproduced end to end. A full cold
+protocol with the release methane configuration has not been run; for methane it would differ from `_learned_r2` only in
+the first months of 2001, where the learned model's lags start without history.
+
+**Documents.** README (the release line, the global table's methane and fire rows, a section with the three-mode table and
+the learned-against-observed table, Figures 1-2 regenerated from `_learned_r2`, the what-changed row, limitation 3, the
+parameter chain, the protocol command); RELEASE_3.0.md (provenance, switches, calibration table, scorecard, limitations,
+where things are); DATA_INVENTORY (the learned file, the CLM surface data); ENVIRONMENT (xgboost); `pyproject.toml`
+(`wetland` optional dependencies). The tower comparison at the band parameters the globe uses is running
+(`site_fit/ch4_band_h`, `ch4_band_snap`).
+

diff --git a/docs/DATA_INVENTORY.md b/docs/DATA_INVENTORY.md
@@ -68,6 +68,8 @@ downloading more variables.
 | **Vegetation type** | `/shared/nas2/Min/ESACCI_LC/ibis_vegtype` | 56 MB | cold-start PFT init, 29 years (1992-2020) |
 | ESACCI raw | `/shared/nas2/Min/ESACCI_LC` | 63 GB | 300 m land cover, source for the above |
 | **Wetland extent** | `/shared/nas2/Hangkai/ibis/inputs/methane/wad2m` | 571 MB | WAD2M `Fw`, monthly 2000-2020 -- methane forcing |
+| **Learned wetland area** | `/shared/nas2/Hangkai/ibis/inputs/methane/wetland_learned/wetland_learned_v2_s31t.npz` | ~30 MB | the release's wetland-area model (`wetland_source: learned`; METHANE.md 11): per-band XGBoost models as JSON, per-cell WAD2M climatology, cell maximum, emulator climatology and static predictors; trained by `verify/methane/wetland_learned_train.py` on `final_s31t_ch4h` (2001-2010). The first, rejected file is kept beside it (`*.REJECTED_*`) |
+| **Topography for the wetland training** | `/shared/nas2/Hangkai/ELM Edge Effects/inputdata/surfdata_0.5x0.5_CH_v1_all_forests.nc` | | CLM 0.5-degree surface data: `FMAX`, `SLOPE`, `STD_ELEV`, `TOPO`, `PCT_WETLAND`, `PCT_LAKE`, `binfl`, read only by the training script (the runtime takes them from the learned file) |
 | **Köppen-Geiger classes** | `/shared/nas2/Hangkai/ibis/inputs/koppen/koppen_beck2023_0.5deg.npz` | 0.1 MB | Beck et al. 2023 (`/shared/nas/Public/Climate_Biome/Koppen_Beck2023`, 0.5-degree per period 1901-30, 31-60, 61-90, 91-2020), packed by `python-port/scripts/koppen_prep.py`; `classes` (4, 360, 720) uint8 N->S, 0 = none; mask on PFT existence (CALIBRATION.md 44) |
 | **Soil organic carbon, bulk density** | `/shared/nas2/Hangkai/ibis/inputs/soil/soita_hwsd2_organic.nc` | ~8 MB | HWSD2 ORG_CARBON (%), BULK (g cm-3) plus sand and clay on the six IBIS layers, 0.5 degree N->S, by `python-port/scripts/hwsd2_organic_to_nc.py` (Min's mapping-unit rule); `physics.soil_organic` (CALIBRATION.md 44) |
 | **Population** | `/shared/nas2/Hangkai/ibis/inputs/fire/popdens` | 252 MB | CLM population stream -- human ignition (OFF by default) |

diff --git a/docs/ENVIRONMENT.md b/docs/ENVIRONMENT.md
@@ -104,3 +104,13 @@ bisect the library versions until the 7 pass, or re-run the lockstep and
 re-baseline `verify/STATUS.md` against these versions. Until then, treat
 absolute numbers from this environment as provisional; relative comparisons
 made *within* one environment (such as the F0 bit-exactness test) are still valid.
+
+## Learned wetland area: xgboost (2026-10-29)
+
+`physics.wetland_source: learned` (and `observed_learned`) evaluates gradient-boosted trees each month (`ibis.bgc.wetland_learned`),
+so the runtime needs `xgboost` (>= 3.0; and scipy for the neighbourhood filter), the `wetland` optional dependency group of
+`python-port/pyproject.toml`. Installed on this box in the GPU venv (`/home/hangkai/.venvs/ibis-gpu`, xgboost 3.4.1 with
+scikit-learn 1.9.1) and the CPU environment (xgboost 3.3.0). The pip wheel reports "No visible GPU" and trains on the CPU;
+training the release file takes about 4 minutes on 24 threads, so the GPU build was not pursued. The trees load from the
+file's JSON in any xgboost >= 3.0. Default runs (`wetland_source: climatology`) do not import xgboost.
+
